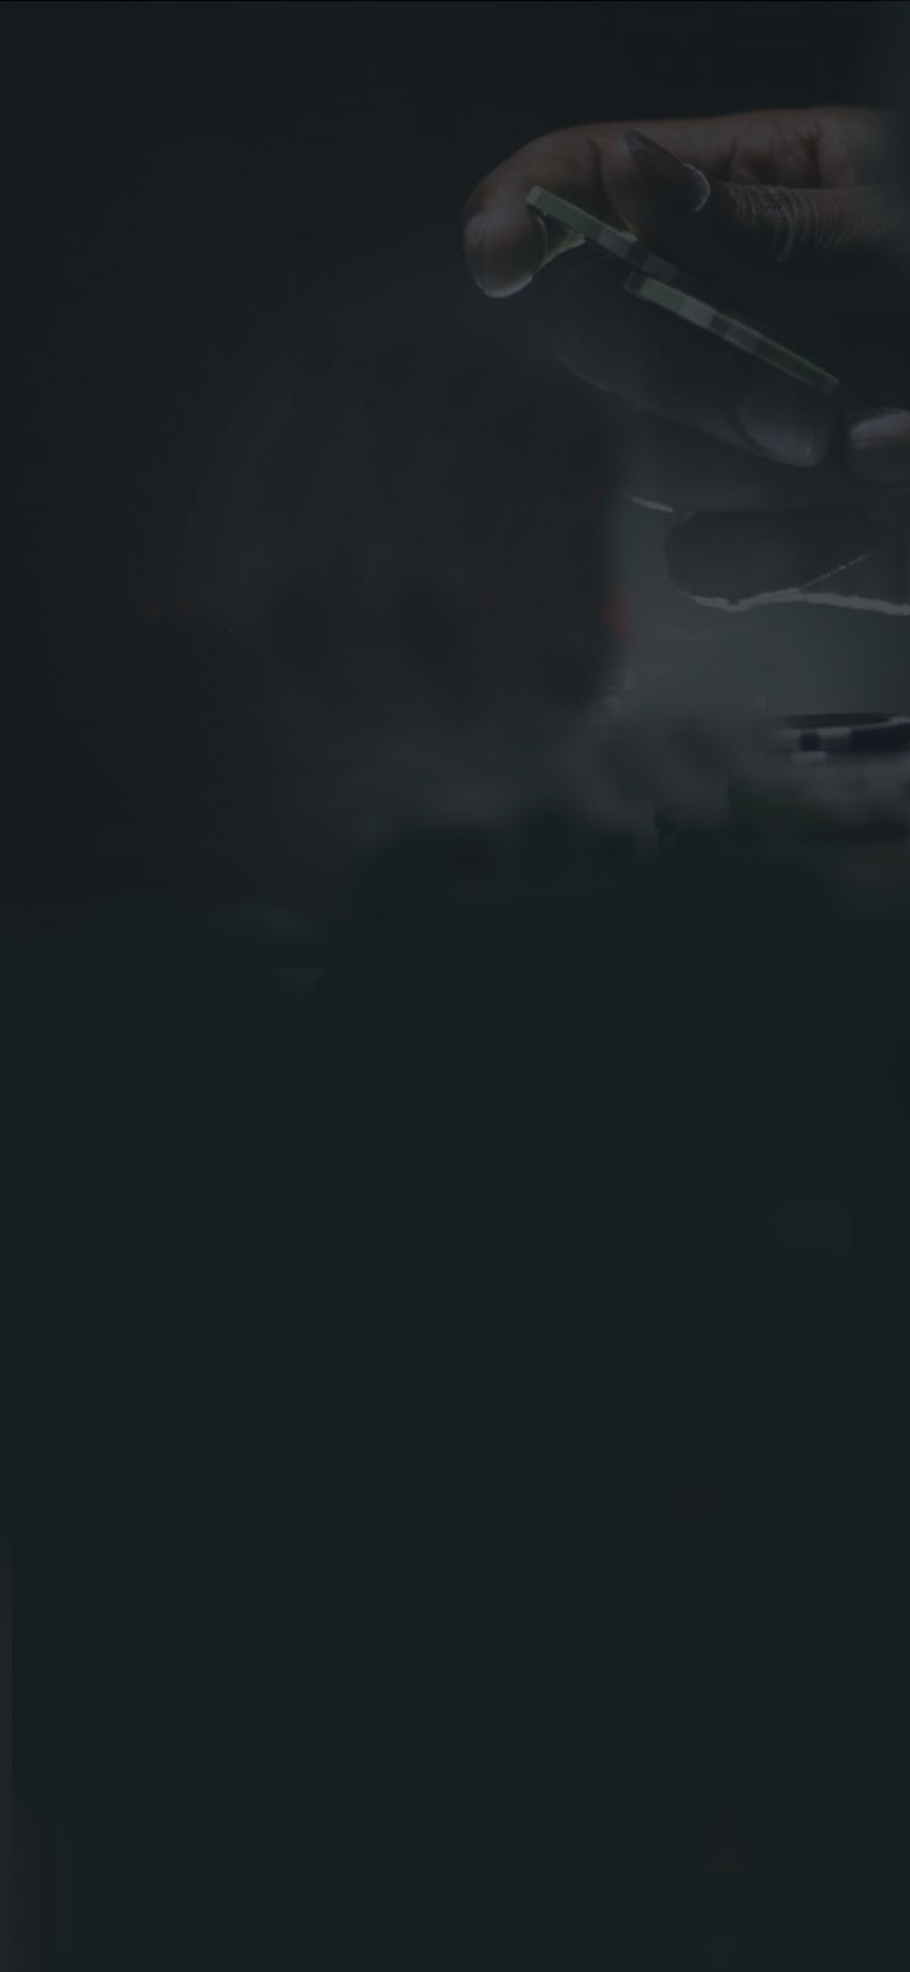
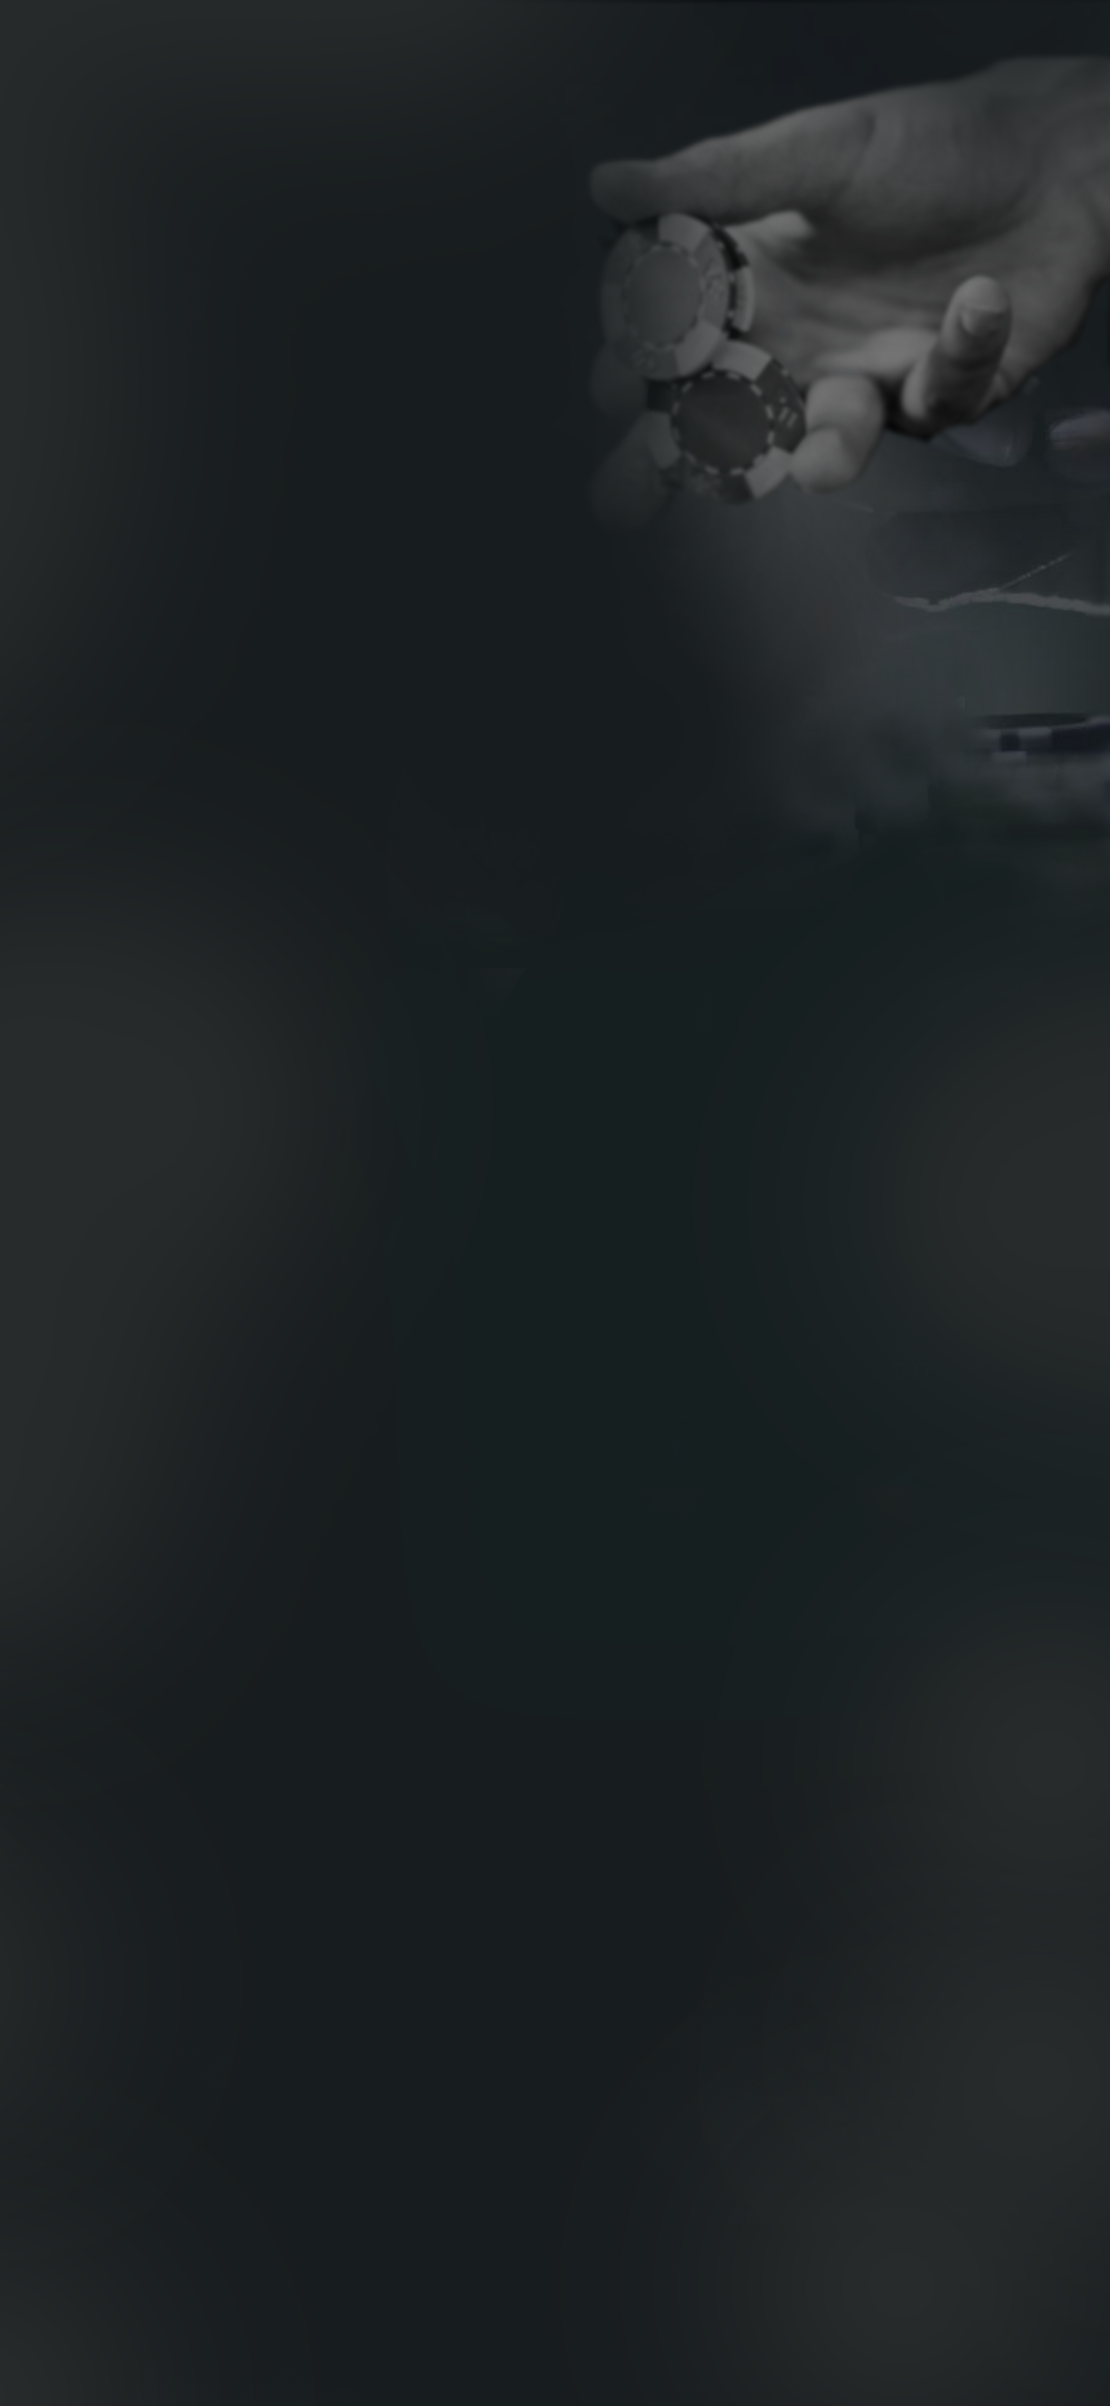
refactor

diff --git a/app/[userId]/style.css b/app/[userId]/style.css
@@ -569,15 +569,18 @@
 
 .rsvp-for-next-week-page {
   height: 100%;
-  background: black;
+  background-image: url('/full-page-back-no-logo.png');
+  background-size: cover; /* Adjusts the image to cover the entire element */
+  background-position: center; /* Centers the image */
   .rsvp-for-next-week {
     color: black;
     padding: 30px;
     font-size: 1.3em;
 
     .header {
-      color: white;
+      color: var(--white);
       text-align: center;
+      font-size: 1.6em;
     }
   }
 
@@ -605,7 +608,8 @@
 
   .rsvp-for-next-week-page {
     height: 120%;
-
+    background-image: unset;
+    background: black;
     .rsvp-for-next-week {
       margin-top: 45px;
       border: 2px solid transparent;
@@ -676,13 +680,42 @@
   justify-content: right;
   margin: 15px;
 }
+.tournament-data-section{
+  background: var(--grey);
+  width: 95%;
+  margin: 10px;
+  border-radius: 5px;
+  padding: 6px;
+}
+.tournament-data-registration-section {
+  width: 95%;
+  margin: 10px;
+  border-radius: 5px;
+  padding: 6px;
+}
+
+.tournament-data-registered-section {
+  background: var(--green-registered);
+}
+
+.tournament-data-not-registered-section {
+  background: var(--red);
+}
+
+.tournament-data-no-registration-needed-section {
+  background: var(--grey-dark);
+}
+
+
+
 .user-tournament-rsvp-item {
   max-width: 400px;
+  color: var(--white);
   margin: 10px;
-  border: 2px solid rgb(0, 112, 243);
+  border: 2px solid var(--red);
   border-radius: 20px;
-  padding-right: 10px;
-  background: white;
+
+  background: var(--black);
 
   .tournament-data {
     width: 100%;
@@ -782,10 +815,8 @@
   }
   .user-tournament-rsvp-item {
     margin-top: 10px;
-    border: 2px solid rgb(0, 112, 243);
     border-radius: 20px;
-    padding-right: 10px;
-    background: white;
+    padding-left: 5px;
   }
   .give-credit-modal-button {
     font-size: 12px;

diff --git a/app/ui/client/PlayerTournamentRegistration.tsx b/app/ui/client/PlayerTournamentRegistration.tsx
@@ -69,13 +69,7 @@ const [pending, setPending] = React.useState(false);
         </div>
         {/* first data section: players count + phase long + first phase blinds  */}
         <div
-          style={{
-            width: '95%',
-            margin: 10,
-            background: '#cfcfcf44',
-            borderRadius: 5,
-            padding: 6,
-          }}
+          className="tournament-data-section"
         >
           <div
             style={{
@@ -143,13 +137,7 @@ const [pending, setPending] = React.useState(false);
         </div>
         {/* second data section: stuck size, entry, re-entry, late reg  */}
         <div
-          style={{
-            width: '95%',
-            margin: 10,
-            background: '#cfcfcf44',
-            borderRadius: 5,
-            padding: 6,
-          }}
+          className="tournament-data-section"
         >
           <div
             style={{
@@ -236,13 +224,7 @@ const [pending, setPending] = React.useState(false);
 
         {/* third data section: registry  */}
         <div
-          style={{
-            width: '95%',
-            margin: 10,
-            background: isPlayerRsvpForDate ? '#ccffcc44':'#ffcccc44',
-            borderRadius: 5,
-            padding: 6,
-          }}
+          className={`tournament-data-registration-section ${isPlayerRsvpForDate ? 'tournament-data-registered-section' : registrationNeeded ? 'tournament-data-not-registered-section' : 'tournament-data-no-registration-needed-section'}`}
         >
           <div
             style={{

diff --git a/app/ui/client/PlayerPagePlayerRegistration.tsx b/app/ui/client/PlayerPagePlayerRegistration.tsx
@@ -15,20 +15,20 @@ export default function PlayerPagePlayerRegistration({
 }) {
   return (
     <div className="rsvp-for-next-week-page" >
-    <div  style={{ marginTop: 50 }} className="rtl">
-      <div style={{ marginTop: 10 }}>
-        {showRsvp ? (
-          <div>
-            <PlayerPageRegistrationSection
-              player={player}
-              thisWeekTournaments={thisWeekTournaments}
-            />
-          </div>
-        ) : (
-          <div>לא נתמך זמנית</div>
-        )}
+      <div  style={{ marginTop: 50 }} className="rtl">
+        <div style={{ marginTop: 10 }}>
+          {showRsvp ? (
+            <div>
+              <PlayerPageRegistrationSection
+                player={player}
+                thisWeekTournaments={thisWeekTournaments}
+              />
+            </div>
+          ) : (
+            <div>לא נתמך זמנית</div>
+          )}
+        </div>
       </div>
-    </div>
     </div>
   );
 }

diff --git a/app/ui/client/PlayerPageRegistrationSection.tsx b/app/ui/client/PlayerPageRegistrationSection.tsx
@@ -18,7 +18,6 @@ const PlayerPageRegistrationSection = ({
   );
 
   return (
-    <div>
       <div
         className="rtl rsvp-for-next-week"
       >
@@ -31,7 +30,6 @@ const PlayerPageRegistrationSection = ({
           <u>אין טורנירים נוספים השבוע</u>
         </div>)}
       </div>
-    </div>
   );
 }
 

diff --git a/app/global.css b/app/global.css
@@ -21,6 +21,7 @@
   --blue: #3495d4;
   --blue-light: #6894d7;
   --green: #57b86a;
+  --green-registered: #286e34;
 
   --grey-mid: #3b4248
 }
